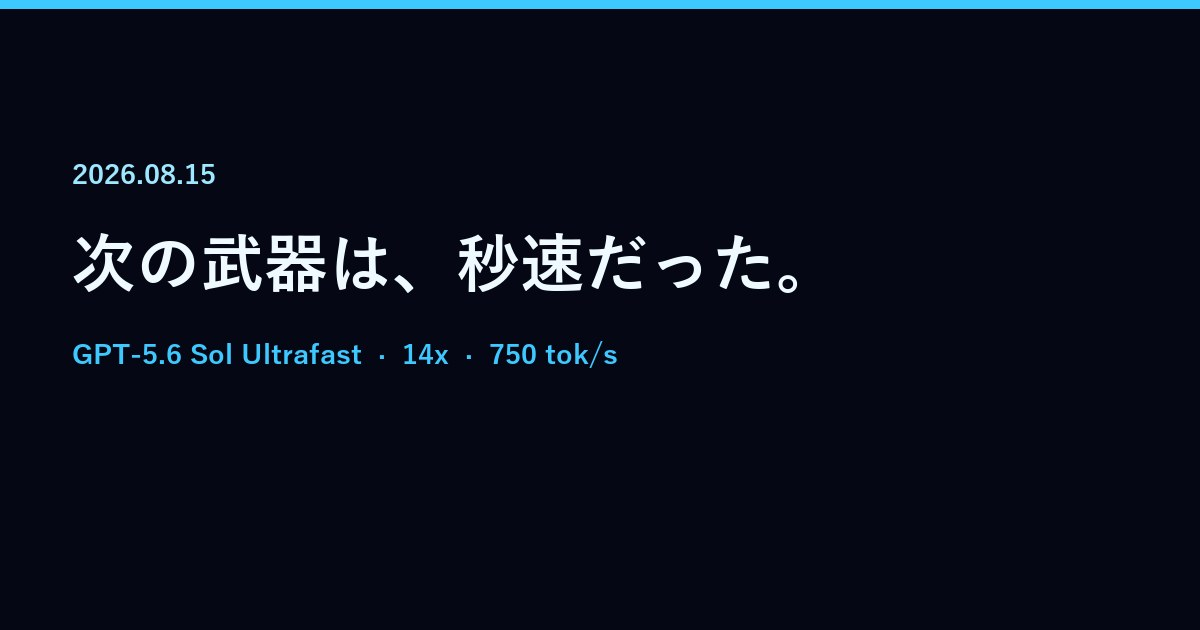
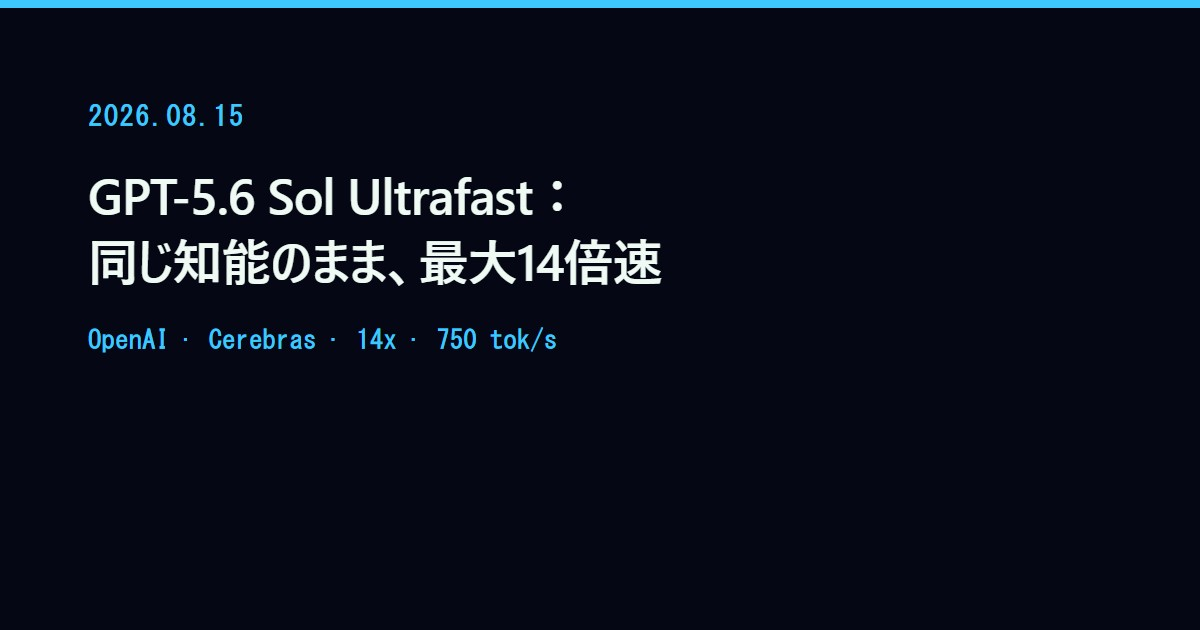
fix: make 08/15 slide title name the product and speed update

diff --git a/presentations/day_slides/day_slide_2026_08_15.html b/presentations/day_slides/day_slide_2026_08_15.html
@@ -3,14 +3,14 @@
 <head>
   <meta charset="utf-8">
   <meta name="viewport" content="width=device-width, initial-scale=1">
-  <title>次の武器は、秒速だった。 | 2026-08-15</title>
+  <title>GPT-5.6 Sol Ultrafast：同じ知能のまま、最大14倍速 | 2026-08-15</title>
   <meta name="description" content="速さのために、知能を捨てなくてよくなった。">
   <link rel="icon" href="data:,">
   <link rel="canonical" href="https://visionhub.jp/presentations/day_slides/day_slide_2026_08_15.html">
   <meta property="og:type" content="article">
   <meta property="og:site_name" content="AI Intelligence Hub">
-  <meta property="og:title" content="次の武器は、秒速だった。">
-  <meta property="og:description" content="OpenAIがGPT-5.6 Sol Ultrafastを限定プレビュー。Cerebras駆動で最大14倍、750 tok/s。品質はStandardと同じと公式。">
+  <meta property="og:title" content="GPT-5.6 Sol Ultrafast：同じ知能のまま、最大14倍速">
+  <meta property="og:description" content="OpenAIがGPT-5.6 Sol Ultrafastを限定プレビュー。Cerebras上で最大14倍、750 tok/s。品質はStandardと同じと公式。">
   <meta property="og:url" content="https://visionhub.jp/presentations/day_slides/day_slide_2026_08_15.html">
   <meta property="og:image" content="https://visionhub.jp/presentations/day_slides/images/0815/cover.jpg">
   <meta name="twitter:card" content="summary_large_image">
@@ -19,8 +19,8 @@
   {
     "@context": "https://schema.org",
     "@type": "PresentationDigitalDocument",
-    "headline": "次の武器は、秒速だった。",
-    "description": "速さのために、知能を捨てなくてよくなった。OpenAIがGPT-5.6 Sol Ultrafastを限定プレビュー。Cerebras駆動で最大14倍、750 tok/s。",
+    "headline": "GPT-5.6 Sol Ultrafast：同じ知能のまま、最大14倍速",
+    "description": "速さのために、知能を捨てなくてよくなった。OpenAIがGPT-5.6 Sol Ultrafastを限定プレビュー。Cerebras上で最大14倍、750 tok/s。",
     "datePublished": "2026-08-15",
     "dateModified": "2026-08-15",
     "articleSection": "Inference Speed"
@@ -87,8 +87,8 @@
       100% { box-shadow:0 0 0 0 rgba(61,200,255,0); }
     }
     .eyebrow { font:800 clamp(15px,2vw,21px)/1 ui-monospace,SFMono-Regular,Menlo,monospace; letter-spacing:.3em; color:#9de8ff; margin:0 0 14px; text-shadow:0 0 24px var(--glow); }
-    h1 { font-size:clamp(34px,5.2vw,66px); line-height:1.18; margin:0 0 18px; font-weight:600; letter-spacing:-.02em; text-wrap:balance; }
-    h1 .em {
+    h1 { font-size:clamp(34px,5.2vw,66px); line-height:1.18; margin:0 0 18px; font-weight:600; letter-spacing:-.02em; text-wrap:balance; word-break:keep-all; }
+    h1 .em { white-space:nowrap;
       color:var(--accent); font-weight:700;
       text-shadow:0 0 28px rgba(61,200,255,.35);
       background:linear-gradient(180deg, #b8f0ff, var(--accent));
@@ -585,11 +585,11 @@
         <div class="hero-copy">
           <span class="kicker"><span class="live">LIVE</span> SPEED / INFERENCE · 2026.08.15 SAT</span>
           <p class="eyebrow">GPT-5.6 SOL · ULTRAFAST</p>
-          <h1>次の武器は、<span class="em">秒速</span>だった。</h1>
+          <h1>GPT-5.6 Sol Ultrafast：<br>同じ知能のまま、<span class="em">最大14倍速</span></h1>
           <p class="lead">
-            OpenAI が <strong>Ultrafast</strong> を API の新サービス階層として限定プレビュー。
-            Cerebras 駆動で GPT-5.6 Sol が最大 <strong>14倍</strong>、出力 <strong>750 tok/s</strong>。
-            公式は「品質は Standard と同じ」。小さいモデルに落とさず、最上位を実時間に載せた。
+            OpenAI が <strong>Ultrafast</strong> を、API の新しい速さの段階として限定プレビューした。
+            Cerebras 上で動く GPT-5.6 Sol は、最大 <strong>14倍</strong>、出力は秒間 <strong>750トークン</strong>。
+            公式は「品質は Standard と同じ」と書く。小さいモデルに落とさず、最上位を会話の速さで使えるようにした。
           </p>
           <div class="hero-meta">
             <span>発表 2026-08-13</span>
@@ -615,7 +615,7 @@
               <div class="dim">limited preview · capacity gated</div>
             </div>
             <div class="spec-rows">
-              <div class="spec-row"><span class="k">主語</span><span class="v">秒速</span></div>
+              <div class="spec-row"><span class="k">焦点</span><span class="v">秒速</span></div>
               <div class="spec-row"><span class="k">モデル</span><span class="v">Sol そのもの</span></div>
               <div class="spec-row"><span class="k">日本デスク</span><span class="v">本番は様子見</span></div>
             </div>
@@ -632,9 +632,9 @@
   <main class="shell">
     <div class="stats-bar">
       <div class="stat-card"><div class="stat-num gold">14×</div><div class="stat-label"><b>最大速度</b>Standard 比。公式の上限</div></div>
-      <div class="stat-card"><div class="stat-num">750</div><div class="stat-label"><b>tok / s</b>出力。Cerebras 駆動</div></div>
-      <div class="stat-card"><div class="stat-num">Sol</div><div class="stat-label"><b>モデルは同じ</b>小さいモデルへの降格ではない</div></div>
-      <div class="stat-card"><div class="stat-num">Preview</div><div class="stat-label"><b>限定公開</b>容量次第で拡大</div></div>
+      <div class="stat-card"><div class="stat-num">750</div><div class="stat-label"><b>秒間トークン</b>出力。Cerebras で動く</div></div>
+      <div class="stat-card"><div class="stat-num">Sol</div><div class="stat-label"><b>モデルは同じ</b>小さいモデルへ落とした話ではない</div></div>
+      <div class="stat-card"><div class="stat-num">Preview</div><div class="stat-label"><b>限定公開</b>枠が空けば広がる</div></div>
     </div>
 
     <nav class="jump" aria-label="セクション移動">
@@ -650,26 +650,26 @@
         <span class="no">01</span>
         <div>
           <p class="slide-kicker">ONE-BOARD SUMMARY</p>
-          <h2>到着は秒速 — 新しいモデルではない。階層が変わった</h2>
+          <h2>到着は秒速 — 新しいモデルではない。速さの段階が変わった</h2>
         </div>
       </div>
       <div class="notes">
         <div class="notes-main">
-          <p>OpenAI が 2026-08-13 に <strong>Ultrafast</strong> を発表した。GPT-5.6 Sol の新しい重みではなく、<strong>API のサービス階層</strong>。Cerebras のウエハスケールエンジンで、Standard 比最大 14倍、出力最大 750 tok/s。8/14–15 に日本語圏へ波及した。</p>
+          <p>OpenAI は 2026-08-13 に <strong>Ultrafast</strong> を発表した。GPT-5.6 Sol の新しい版ではない。<strong>API に速さの段階を足した</strong>話だ。動かすのは Cerebras のウエハスケールエンジン。Standard と比べて最大 14倍、出力は最大 750 tok/s。日本語の報道は 8/14–15 に広がった。</p>
           <div class="vs">
             <article class="vs-card before">
-              <h4><span>BEFORE</span>速さは小さいモデルの仕事</h4>
+              <h4><span>BEFORE</span>速さは、小さいモデルの仕事だった</h4>
               <ul>
-                <li>リアルタイムが要るなら Luna / Flash へ落とす</li>
+                <li>すぐ返事が要るなら、Luna や Flash に落とす</li>
                 <li>最上位は「一晩回して朝見る」側にいた</li>
-                <li>知能と速さはトレードオフ、が机の前提だった</li>
+                <li>速さのために知能を落とす、が普通だった</li>
               </ul>
             </article>
             <article class="vs-card now">
-              <h4><span>NOW</span>最上位を実時間に載せる</h4>
+              <h4><span>NOW</span>最上位を、会話の速さで使う</h4>
               <ul>
-                <li>Sol そのものを Ultrafast 階層で出す</li>
-                <li>公式は品質を Standard と同じと書く</li>
+                <li>Sol そのものを Ultrafast という速さの段階で出す</li>
+                <li>公式は、品質は Standard と同じと書く</li>
                 <li>捨てるのは知能ではなく、待ち時間</li>
               </ul>
             </article>
@@ -677,7 +677,7 @@
         </div>
         <aside class="sowhat">
           <p class="sowhat-label">SO WHAT</p>
-          <p>主語はベンチマークではない。<strong>最上位を、対話の速度で使えるか</strong>。新しい脳ではなく、新しい時計。</p>
+          <p>見るべきは点数ではない。<strong>最上位を、会話の速さで使えるかどうか</strong>。新しい頭ではなく、新しい時計だ。</p>
         </aside>
       </div>
     </section>
@@ -687,25 +687,25 @@
         <span class="no">02</span>
         <div>
           <p class="slide-kicker">WHAT CHANGED</p>
-          <h2>捨てなくてよい — 速さのために知能を落とす前提が折れた</h2>
+          <h2>捨てなくてよい — 速さのために知能を落とす、が前提ではなくなった</h2>
         </div>
       </div>
       <div class="notes">
         <div class="notes-main">
-          <p>公式ブログの言い方は <em>more useful work per second</em>。価格戦争の翌週に、速度戦争が来た。DeepSeek が料金表を動かした翌日、OpenAI は「同じ Sol を 14倍速く」と返した。</p>
+          <p>公式ブログは <em>more useful work per second</em> と言う。同じ1秒で、もっと役に立つ仕事が終わる、という言い方だ。価格戦争の翌週に、速度戦争が来た。DeepSeek が料金表を動かした翌日、OpenAI は「同じ Sol を 14倍速く」と返した。</p>
           <ul>
-            <li><strong>14× / 750 tok/s</strong> は公式の上限。実測はワークロード次第。ここに机の数字を固定しない</li>
-            <li>エンジンは <strong>Cerebras</strong>。GPU のメモリ帯域ではなく、ウエハ上のデータ移動を潰す話</li>
-            <li>対象は音声、障害対応、金融調査、チェックアウト直前の対話。バッチ overnight ではない</li>
-            <li>いまは <strong>限定プレビュー</strong>。申し込み制。容量がボトルネック</li>
+            <li><strong>14× / 750 tok/s</strong> は公式の上限。実測は仕事の内容次第。この数字を確定値として使わない</li>
+            <li>エンジンは <strong>Cerebras</strong>。GPU のメモリ帯域の話ではない。ウエハの上で、データを動かす距離を短くする話だ</li>
+            <li>向いているのは音声、障害対応、金融調査、買う直前の対話。一晩かけてまとめて回す仕事ではない</li>
+            <li>いまは <strong>限定プレビュー</strong>。申し込み制。枠が足りない</li>
           </ul>
           <div class="warn">
-            <p><strong>読み方:</strong> Ultrafast は新モデル名ではない。Sol の重みを速く出す階層。料金は公式がまだ一般公開していない。GA 前に本番単価を机に書かない。</p>
+            <p><strong>読み方:</strong> Ultrafast は新しいモデルの名前ではない。同じ Sol を速く出す段階だ。料金は、公式がまだ一般向けに出していない。正式公開の前に、本番の単価を決め打ちしない。</p>
           </div>
         </div>
         <aside class="sowhat">
           <p class="sowhat-label">FRAME</p>
-          <p>8/14 の主語は料金。今日の主語は秒速。両方とも、<strong>モデル発表ではない</strong>。</p>
+          <p>8/14 の話は料金。今日の話は秒速。どちらも、<strong>新しいモデルの発表ではない</strong>。</p>
         </aside>
       </div>
     </section>
@@ -715,7 +715,7 @@
         <span class="no">03</span>
         <div>
           <p class="slide-kicker">WHERE IT MATTERS</p>
-          <h2>使いどころ — 待ちが判断を壊していた仕事だけ</h2>
+          <h2>使いどころ — 待ち時間が判断を止めていた仕事だけ</h2>
         </div>
       </div>
       <div class="notes">
@@ -734,18 +734,18 @@
             <article class="m-card">
               <div class="idx">COMMERCE</div>
               <h3>購入直前</h3>
-              <p>在庫・推奨・決済の引っかかりを、カートが捨てられる前に解く。</p>
+              <p>在庫、おすすめ、決済で止まったところを、カートが捨てられる前にほどく。</p>
             </article>
             <article class="m-card">
               <div class="idx">RESEARCH</div>
               <h3>日中の反復</h3>
-              <p>overnight の実験ループを、勤務時間内の複数回に縮める。公式の社内例。</p>
+              <p>一晩がかりの実験を、勤務時間のなかで何度も回せるように縮める。公式の社内例だ。</p>
             </article>
           </div>
         </div>
         <aside class="sowhat">
           <p class="sowhat-label">SCOPE</p>
-          <p>バッチ要約や下書きには載せない。速さの値段を払う仕事だけ。</p>
+          <p>まとめて要約する仕事や、下書きには使わない。速さの代金を払う仕事だけに使う。</p>
         </aside>
       </div>
     </section>
@@ -755,29 +755,29 @@
         <span class="no">04</span>
         <div>
           <p class="slide-kicker">ACTION / JP DESK</p>
-          <h2>日本デスク — 本番は様子見。待ちが致命の1本だけ試す</h2>
+          <h2>日本デスク — 本番は様子見。待ち時間が致命の1本だけ試す</h2>
         </div>
       </div>
       <div class="notes">
         <div class="notes-main">
-          <p>全部 Ultrafast に寄せない。プレビューで容量も単価も未確定。</p>
+          <p>全部を Ultrafast に寄せない。プレビューなので、枠も単価もまだ決まっていない。</p>
           <div class="loop" aria-label="Watch, pick, measure">
-            <div class="step"><small>様子見</small>本番の既定経路は動かさない</div>
+            <div class="step"><small>様子見</small>本番のいつもの経路は動かさない</div>
             <span class="arr">/</span>
-            <div class="step"><small>1本</small>待ちが致命の経路だけ申請する</div>
+            <div class="step"><small>1本</small>待ち時間が致命の経路だけ申請する</div>
             <span class="arr">→</span>
-            <div class="step"><small>測る</small>tok/s より「判断までの秒」</div>
+            <div class="step"><small>測る</small>秒間トークンより「判断までの秒」</div>
           </div>
           <ul>
-            <li><strong>本番は様子見:</strong> 既定の Sol / Terra は据え置き。プレビューを机の既定にしない</li>
-            <li><strong>試すなら1本:</strong> 障害対応か音声か、待ちが会話を壊している経路だけ</li>
-            <li><strong>測るもの:</strong> ベンチの tok/s ではなく、仮説から次の一手までの秒</li>
-            <li><strong>料金は一次確認:</strong> GA と単価が出るまで、コスト試算を確定しない</li>
+            <li><strong>本番は様子見:</strong> いつもの Sol / Terra はそのまま。プレビューを普段使いの標準にしない</li>
+            <li><strong>試すなら1本:</strong> 障害対応か音声か、待ち時間が会話を止めている経路だけ</li>
+            <li><strong>測るもの:</strong> ベンチマークの tok/s ではなく、仮説から次の一手までの秒数</li>
+            <li><strong>料金は一次確認:</strong> 正式公開と単価が出るまで、コスト試算を確定しない</li>
           </ul>
         </div>
         <aside class="sowhat">
           <p class="sowhat-label">STACK</p>
-          <p>既定は動かさない。待ちが致命の1本だけ。公式ブログを一次に。</p>
+          <p>いつもの経路は動かさない。待ち時間が致命の1本だけ試す。一次情報は公式ブログ。</p>
         </aside>
       </div>
     </section>
@@ -786,8 +786,8 @@
     <section class="finale" aria-label="Takeaway">
       <p class="eyebrow">TAKEAWAY</p>
       <blockquote>
-        次の武器は、秒速だった。<em>速さのために知能を捨てなくてよい</em>。<br>
-        本番は様子見。待ちが致命の1本だけ。
+        GPT-5.6 Sol Ultrafast：同じ知能のまま、最大14倍速。<em>速さのために知能を捨てなくてよい</em>。<br>
+        本番は様子見。待ち時間が致命の1本だけ。
       </blockquote>
       <p>Day Slide No.380 · 2026-08-15 · AI Intelligence Hub</p>
     </section>
@@ -798,7 +798,7 @@
       <a href="https://www.cerebras.ai/blog/accelerating-gpt-5-6-sol-ultrafast-with-openai" class="ext">Cerebras blog</a>、
       <a href="https://investors.cerebras.ai/news-releases/news-release-details/cerebras-powers-ultrafast-mode-openais-gpt-56-sol" class="ext">Cerebras IR 2026-08-13</a>、
       ITmedia AI+ / GIGAZINE 2026-08-14。
-      14× と 750 tok/s は公式上限。実測はワークロード次第。
+      14× と 750 tok/s は公式上限。実測は仕事の内容次第。
       料金の一般公開値は未確認。限定プレビュー。
       AI Intelligence Hub Day Slide · 2026-08-15 · No.380</p>
     </footer>

diff --git a/index.html b/index.html
@@ -407,6 +407,7 @@
       font-weight: 700;
       line-height: 1.5;
       color: var(--on-dark);
+      word-break: keep-all;
     }
     .hero-news .hero-summary {
       margin: 6px 0 0;
@@ -1225,7 +1226,7 @@
           <div class="hero-news">
             <span class="hero-news-dot" aria-hidden="true"></span>
             <div class="hero-news-body">
-              <!-- fallback:latest-slide --><p id="heroTwist" class="hero-news-title">次の武器は、秒速だった。</p><!-- fallback:end -->
+              <!-- fallback:latest-slide --><p id="heroTwist" class="hero-news-title">GPT-5.6 Sol Ultrafast：同じ知能のまま、最大14倍速</p><!-- fallback:end -->
               <!-- fallback:latest-slide --><p id="heroWhy" class="hero-summary">速さのために、知能を捨てなくてよくなった。</p><!-- fallback:end -->
               <span class="hero-news-meta">本日のスライド · AI Intelligence Hub</span>
             </div>
@@ -2079,11 +2080,11 @@
           <a class="section-link" href="presentations/ai_ranking_report_latest.html">TOP 10 をすべて見る <span aria-hidden="true">→</span></a>
         </div>
         <div id="rankingGrid" class="ranking-grid">
-          <a class="ranking-card" href="presentations/day_slides/day_slide_2026_08_15.html" aria-label="1位: 次の武器は、秒速だった。">
+          <a class="ranking-card" href="presentations/day_slides/day_slide_2026_08_15.html" aria-label="1位: GPT-5.6 Sol Ultrafast：同じ知能のまま、最大14倍速">
             <div class="rc-rank">01</div>
             <div class="rc-body">
               <span class="rc-tag">本日のスライド</span>
-              <h3 class="rc-title">次の武器は、秒速だった。</h3>
+              <h3 class="rc-title">GPT-5.6 Sol Ultrafast：同じ知能のまま、最大14倍速</h3>
               <span class="rc-source">AI Intelligence Hub</span>
               <div class="rc-foot">
                 <div class="rc-bar"><div class="rc-fill" style="width:100%"></div></div>
@@ -2250,7 +2251,7 @@
             <div class="cat-source"><span>GitHub</span><span class="arr">→</span></div>
           </a>
           <noscript>
-            <div class="cat-card"><div class="cat-label">LATEST</div><div class="cat-title">次の武器は、秒速だった。</div><div class="cat-source"><a href="presentations/day_slides/day_slide_2026_08_15.html">今日のスライドを見る →</a></div></div>
+            <div class="cat-card"><div class="cat-label">LATEST</div><div class="cat-title">GPT-5.6 Sol Ultrafast：同じ知能のまま、最大14倍速</div><div class="cat-source"><a href="presentations/day_slides/day_slide_2026_08_15.html">今日のスライドを見る →</a></div></div>
           </noscript>
         </div>
       </div>
@@ -2268,7 +2269,7 @@
           <a class="section-link" href="presentations/day_slides_list.html">すべてのスライドを見る <span aria-hidden="true">→</span></a>
         </div>
         <!-- fallback:this-week --><div id="weekGrid" class="week-grid">
-          <div class="week-card is-today is-empty"><span class="today-flag">LATEST</span><span class="week-day">AUG · 土曜</span><div class="week-date">15</div><div class="week-title"></div><span class="week-go">更新なし</span></div>
+          <a class="week-card is-today" href="presentations/day_slides/day_slide_2026_08_15.html"><span class="today-flag">LATEST</span><span class="week-day">AUG · 土曜</span><div class="week-date">15</div><div class="week-title">GPT-5.6 Sol Ultrafast：同じ知能のまま、最大14倍速</div><span class="week-go">続きを読む →</span></a>
           <a class="week-card" href="presentations/day_slides/day_slide_2026_08_14.html"><span class="week-day">AUG · 金曜</span><div class="week-date">14</div><div class="week-title">サプライズはモデルじゃない</div><span class="week-go">続きを読む →</span></a>
           <a class="week-card" href="presentations/day_slides/day_slide_2026_08_13.html"><span class="week-day">AUG · 木曜</span><div class="week-date">13</div><div class="week-title">サプライズは日付じゃない——同じ値段のまま前線に戻った Grok 4.6</div><span class="week-go">続きを読む →</span></a>
           <a class="week-card" href="presentations/day_slides/day_slide_2026_08_12.html"><span class="week-day">AUG · 水曜</span><div class="week-date">12</div><div class="week-title">Grok Bot：専用クラウドPCを持つ常時稼働AI同僚</div><span class="week-go">続きを読む →</span></a>

diff --git a/presentations/day_slides_index.html b/presentations/day_slides_index.html
@@ -606,7 +606,7 @@
         <a href="../contact.html">Contact</a>
       </nav>
       <div class="header-actions">
-        <a class="cta" href="day_slides/day_slide_2026_08_14.html">最新スライド <span aria-hidden="true">→</span></a>
+        <a class="cta" href="day_slides/day_slide_2026_08_15.html">最新スライド <span aria-hidden="true">→</span></a>
         <button class="nav-toggle" type="button" aria-expanded="false" aria-controls="globalNav" aria-label="メニューを開く">
           <svg class="icon-open" viewBox="0 0 24 24" fill="none" stroke="currentColor" stroke-width="2" stroke-linecap="round" aria-hidden="true"><line x1="4" y1="7" x2="20" y2="7"/><line x1="4" y1="12" x2="20" y2="12"/><line x1="4" y1="17" x2="20" y2="17"/></svg>
           <svg class="icon-close" viewBox="0 0 24 24" fill="none" stroke="currentColor" stroke-width="2" stroke-linecap="round" aria-hidden="true"><line x1="6" y1="6" x2="18" y2="18"/><line x1="6" y1="18" x2="18" y2="6"/></svg>
@@ -655,13 +655,13 @@
             <div class="section-eyebrow">FEATURED</div>
             <h2 class="section-title">最新の3本</h2>
           </div>
-          <p class="section-sub">直近のスライドをハイライト。次の武器は、秒速だった。、サプライズはモデルじゃない、サプライズは日付じゃない——同じ値段のまま前線に戻った Grok 4.6 など。</p>
+          <p class="section-sub">直近のスライドをハイライト。GPT-5.6 Sol Ultrafast：同じ知能のまま、最大14倍速、サプライズはモデルじゃない、サプライズは日付じゃない——同じ値段のまま前線に戻った Grok 4.6 など。</p>
         </div>
         <div class="featured-grid">
           <a class="feat-card" href="day_slides/day_slide_2026_08_15.html">
             <div class="feat-tag"><span class="dot"></span>LATEST</div>
             <div class="feat-date">2026/08/15</div>
-            <h3 class="feat-title">GPT-5.6 Sol Ultrafast</h3>
+            <h3 class="feat-title">GPT-5.6 Sol Ultrafast：同じ知能のまま、最大14倍速</h3>
             <span class="feat-cta">View slide <span class="arr">→</span></span>
           </a>
           <a class="feat-card" href="day_slides/day_slide_2026_08_14.html">
@@ -722,7 +722,7 @@
               <span class="month-count">15 件</span>
             </summary>
             <div class="slides-grid">
-              <a class="slide-card" href="day_slides/day_slide_2026_08_15.html"><span class="slide-date">08/15</span><span class="slide-title">GPT-5.6 Sol Ultrafast</span></a>
+              <a class="slide-card" href="day_slides/day_slide_2026_08_15.html"><span class="slide-date">08/15</span><span class="slide-title">GPT-5.6 Sol Ultrafast：同じ知能のまま、最大14倍速</span></a>
               <a class="slide-card" href="day_slides/day_slide_2026_08_14.html"><span class="slide-date">08/14</span><span class="slide-title">サプライズはモデルじゃない</span></a>
               <a class="slide-card" href="day_slides/day_slide_2026_08_13.html"><span class="slide-date">08/13</span><span class="slide-title">サプライズは日付じゃない——同じ値段のまま前線に戻った Grok 4.6</span></a>
               <a class="slide-card" href="day_slides/day_slide_2026_08_12.html"><span class="slide-date">08/12</span><span class="slide-title">Grok Bot：専用クラウドPCを持つ常時稼働AI同僚</span></a>
